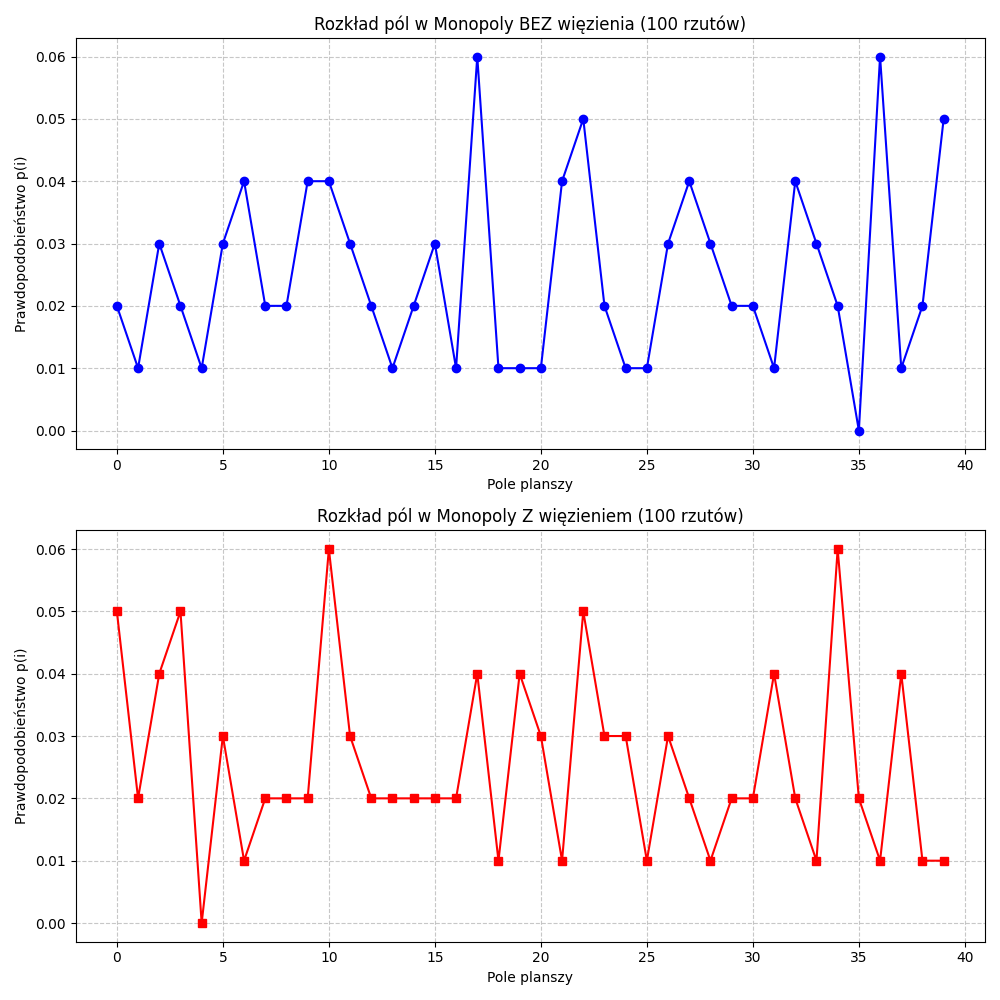
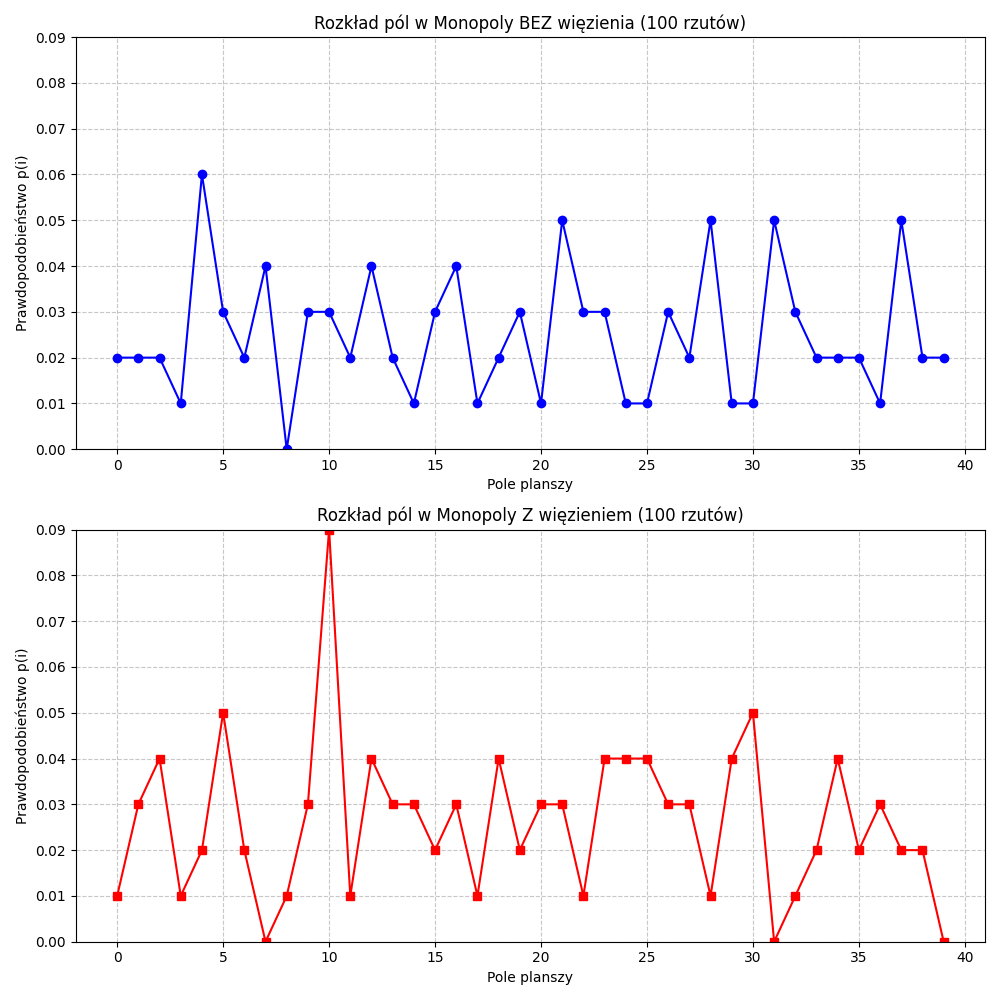
Zmiana skali na wkresach

diff --git a/monopoly/plot.py b/monopoly/plot.py
@@ -23,11 +23,14 @@ def simulate_monopoly(rolls, jail_rule = False):
 def plot_distribution(standard, jail, rolls): 
     fig, axs = plt.subplots(2, 1, figsize=(10, 10))
 
+    y_max = max(max(standard), max(jail))  # Maksymalna wartość prawdopodobieństwa na obu wykresach
+
     # wykres 1: bez więzienia
     axs[0].plot(range(board_size), standard, marker='o', linestyle='-', color='blue')
     axs[0].set_title(f"Rozkład pól w Monopoly BEZ więzienia ({rolls} rzutów)")
     axs[0].set_xlabel("Pole planszy")
     axs[0].set_ylabel("Prawdopodobieństwo p(i)")
+    axs[0].set_ylim(0, y_max)  # Ustawienie tej samej skali osi Y
     axs[0].grid(True, linestyle="--", alpha=0.7)
 
     # wykres 2: z więzieniem
@@ -35,11 +38,13 @@ def plot_distribution(standard, jail, rolls):
     axs[1].set_title(f"Rozkład pól w Monopoly Z więzieniem ({rolls} rzutów)")
     axs[1].set_xlabel("Pole planszy")
     axs[1].set_ylabel("Prawdopodobieństwo p(i)")
+    axs[1].set_ylim(0, y_max)  # Ustawienie tej samej skali osi Y
     axs[1].grid(True, linestyle="--", alpha=0.7)
 
     plt.tight_layout()
     plt.savefig(f"monopoly_{rolls}.png")  # Zapis wykresu
     plt.show()
+
     
 for rolls in simulations: 
     standard = simulate_monopoly(rolls, jail_rule=False)
